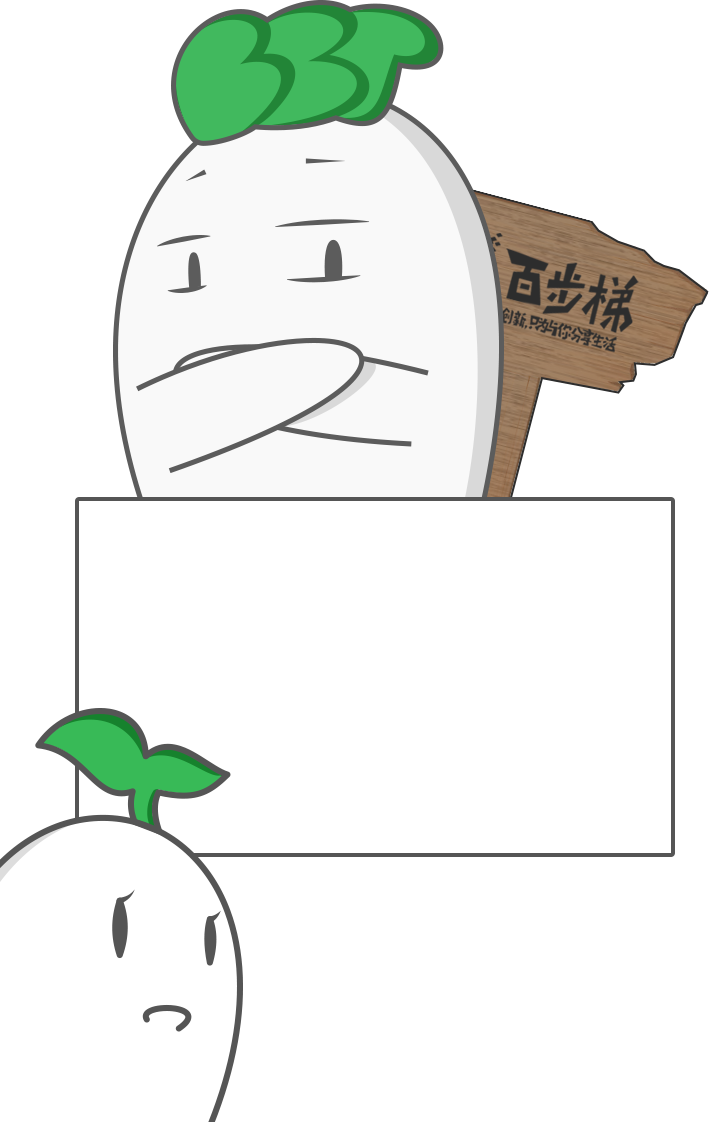
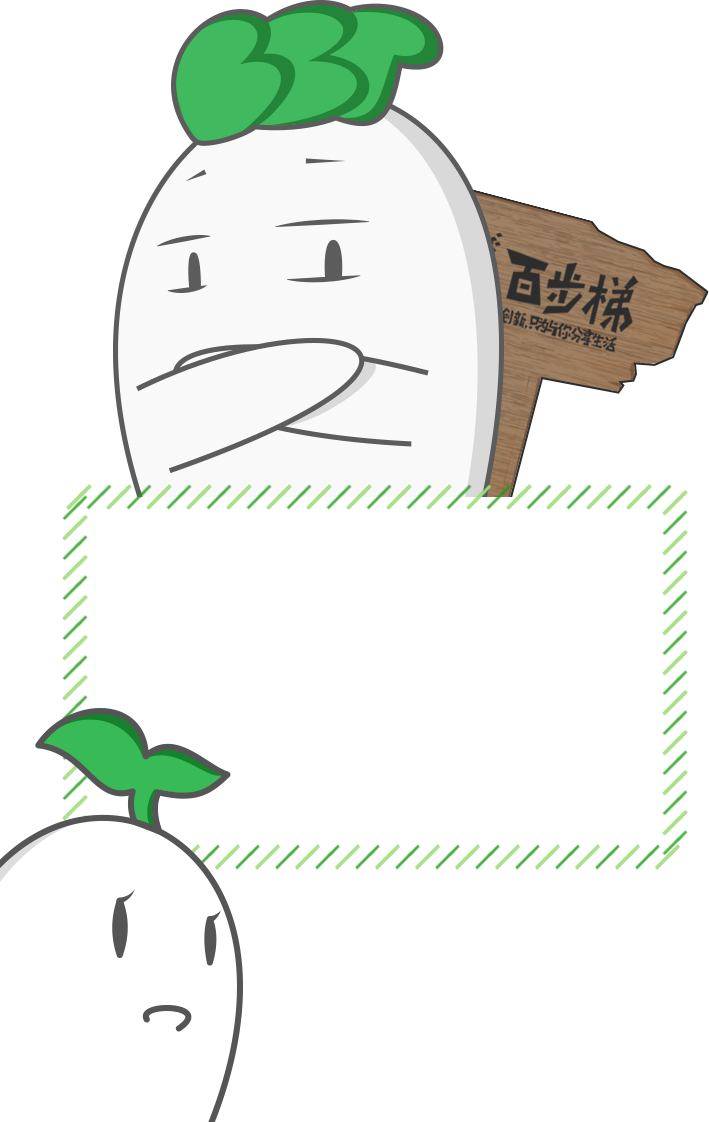
改了一堆设计说要改的东西

Changed region(s): [[0.0931, 0.4367, 0.9619, 0.7799], [0.0931, 0.6863, 0.1241, 0.7487]]

diff --git a/js/game.js b/js/game.js
@@ -36,13 +36,27 @@ function onLoaded()
 
 function tmp()
 {
-    document.getElementById("loading").style.display="none";
-    document.getElementById("description-1").style.display="block";
-    document.getElementById("description-1").className+=" animated infinite pulse";
-    document.getElementById("description-1").onclick= function () {
-        document.getElementById("description-1").style.display="none";
-        showDescription2();
+    var isPlayed=localStorage.played;
+    /*console.log(isPlayed);
+    console.log(true);*/
+    if(isPlayed=='true')//localStorage的坑
+    {
+        gameInit(false);
+        document.getElementById("loading").style.display="none";
+        gameReseeResult();
     }
+    else
+    {
+        document.getElementById("loading").style.display="none";
+        document.getElementById("description-1").style.display="block";
+        document.getElementById("description-1").className+=" animated infinite pulse";
+        document.getElementById("description-1").onclick= function () {
+            document.getElementById("description-1").style.display="none";
+            showDescription2();
+        }
+    }
+
+
 }
 function showDescription2()
 {
@@ -59,12 +73,10 @@ function showDescription2()
         gameInit();
     }
 }
-function gameEnd()
+function showResult(play_time)
 {
-    if(isGameEnded)
-        return;
-    isGameEnded=true;
-    var play_time=getPlayTime();
+    document.getElementById("score_display").style.display="none";
+
     score=play_time;
     var is_succeed;
     if(play_time>=30)
@@ -88,10 +100,27 @@ function gameEnd()
     document.getElementById("description-3").style.display="block";
     document.getElementById("description-3").className+=" animated rollIn";
     isGameEnd=true;
+    localStorage.played='true';
+    localStorage.score=score;
     console.log("game end");
 }
-function gameInit()
+function gameEnd()
 {
+    if(isGameEnded)
+        return;
+    isGameEnded=true;
+    var play_time=getPlayTime();
+    showResult(play_time);
+}
+
+function gameReseeResult()
+{
+    showResult(localStorage.score);
+}
+function gameInit(ifStartGame)
+{
+    if(ifStartGame==null)
+        ifStartGame=true;
     isGameEnd=false;
     isGameEnded=false;
     var canvas=document.getElementById("gameCanvas");
@@ -110,8 +139,8 @@ function gameInit()
     container=new createjs.Container();
     stage.addChild(container);
 
-
-    gameStart();
+    if(ifStartGame)
+        gameStart();
 }
 function gameStart()
 {
@@ -135,6 +164,7 @@ function gameStart()
     createjs.Ticker.timingMode = createjs.Ticker.RAF;
     createjs.Ticker.interval=25;
     start_time=(new Date()).getTime();
+    document.getElementById("score_display").style.display="block";
     createjs.Ticker.addEventListener("tick", tick);
 }
 function addObj(drop_obj,isUltraQuick)
@@ -197,12 +227,20 @@ function tick(event)
         createjs.Ticker.removeAllEventListeners();
         setTimeout(gameEnd,1000);
     }
+    var time=0;
     if(isGameEnd)
+    {
         scoreLabel.text = "您的可爱值："+score.toFixed(2) + " FPS: "+Math.round(createjs.Ticker.getMeasuredFPS() )+ " 萝卜数： " + objs.length ;
+        time=score.toFixed(2);
+
+    }
     else
+    {
         scoreLabel.text = "您的可爱值："+getPlayTime().toFixed(2) + " FPS: "+Math.round(createjs.Ticker.getMeasuredFPS() )+ " 萝卜数： " + objs.length ;
-
-
+        time=getPlayTime().toFixed(2);
+    }
+    time=time.toString().split(".");
+    document.getElementById("score_display").innerText=time[0] +"' " + time[1];
     stage.update();
 
 }
@@ -277,5 +315,7 @@ function reStartGame()
 
     document.getElementById("description-3").style.display="none";
     document.getElementById("description-3").className="description-3-div";
+    stage.update();
+    localStorage.played='false';
     setTimeout(gameStart,1000);
 }

diff --git a/css/game.css b/css/game.css
@@ -62,41 +62,38 @@ body{
 }
 .description-3-text-div{
     position: absolute;
-    left:9.06%;
-    top:0.35%;
-    width:72.8%;
-    height: 65.57%;
-    padding-top:8px;
-    padding-left:1.5em;
+    left:3.48%;
+    top:2.29%;
+    width:82.99%;
+    height: 61.04%;
+    padding-top:20px;
     display: none;
 }
-.description-3-text-div > p{
+.description-3-text-div  p{
+
     font-size: 16px;
-    font-weight: bold;
     line-height: 28px;
     color: #555555;
     margin: 0;
     text-align: left;
-
+    margin-left: 40px;
 }
 .description-3-text-div a{
     text-decoration: none;
     color: green;
-    font-weight: bold;
+    display: inline-block;
+    margin: 0 12px;
 }
-.description-3-text-div > a{
+.two-col-div{
     display: block;
+    margin: 16px 0;
+    text-align: center;
 }
-.description-3-text-div > a:nth-of-type(1){
-     margin-top:26px;
+.description-3-text-div >a:nth-of-type(1){
+    font-weight: bolder;
  }
-.description-3-text-div > a:nth-of-type(2){
-    margin-top:10px;
-    margin-bottom: 18px;
-}
 .description-3-text-div span{
     font-size: 22px;
-    font-weight: bolder;
     line-height: 28px;
     color: green;
     margin: 0 6px;
@@ -108,12 +105,11 @@ body{
     top:43.57%;
     width:82.65%;
     height: 31.46%;
-    padding-top:16px;
+    padding-top:20px;
 }
 .description-1-text-div > p{
-    font-size: 16px;
-    font-weight: bold;
-    line-height: 28px;
+    font-size: 18px;
+    line-height: 36px;
     color: #555555;
     margin: 0;
     text-align: center;
@@ -157,22 +153,38 @@ body{
 }
 .button{
     display: block;
-    width: 135px;
-    height: 36px;
-    line-height: 36px;
+    width: 96px;
+    height: 32px;
+    line-height: 32px;
     font-size: 18px;
-    font-weight: bold;
     margin:0.5em auto;
     text-align: center;
     background-repeat:no-repeat;
     background-size: cover;
+    border-radius: 6px;
 
 }
 .green-button{
-    background-image: url("../game_resource/lv.png");
+    background-color: #1c9a12;
     color:white;
 }
 .white-button{
+    background-color: white;
+    color:#1c9a12;
+    border-color: #1c9a12;
+    border-width: 2px;
+    border-style: solid;
+
+}
+.score-span{
+    width: 135px;
+    height: 36px;
     background-image: url("../game_resource/bai.png");
-    color:green;
+    color: green;
+    position: fixed;
+    right: 12px;
+    top:12px;
+    line-height: 36px;
+    z-index: 200;
+    display: none;
 }

diff --git a/recruit_intro.php b/recruit_intro.php
@@ -6,22 +6,33 @@
     <link rel="stylesheet" href="css/recruit_intro.css?<?php echo filemtime("css/recruit_intro.css");?>">
     <link rel="stylesheet" href="lib/animate.css/animate.min.css">
     <script src="lib/axios/dist/axios.min.js"></script>
-    <script src="lib/vue/dist/vue.min.js"></script>
+    <script src="lib/vue/dist/vue.js"></script>
     <title></title>
 </head>
 <body>
 <div id="vm_div">
     <img class="bottom-img" src="img/bottom.png" />
-    <div class="head-div">
-        <div class="head-img-div">
-            <img :src="cur_head_img" />
+    <transition-group name="fade-in"
+                :enter-active-class="fade_in_class"
+                :leave-active-class="fade_out_class"
+                      mode="in-out">
+        <div v-for="(department,pos) in departments" v-show="cur_pos==pos" key="'div-'+pos" class="animate-div">
+            <div class="head-div" >
+                <div class="head-img-div" >
+                    <img :src="department.img" />
+                </div>
+            </div>
+            <div class="description" v-html="department.description">
+            </div>
+            <button class="button" onclick="window.location='recruit.html'">马上报名</button>
+            <div class="sitg-div"></div>
         </div>
-    </div>
-    <span class="left-arrow" v-if="cur_pos>0 || true" @click="goPage(cur_pos-1)"></span>
-    <span class="right-arrow" v-if="cur_pos<apartments-1 || true" @click="goPage(cur_pos+1)"></span>
-    <div class="description" v-html="cur_description">
-    </div>
-    <button class="button">马上报名</button>
+    </transition-group>
+
+
+    <span class="left-arrow" v-if="cur_pos>0" @click="goPage(cur_pos-1)"></span>
+    <span class="right-arrow" v-if="cur_pos<departments.length-1" @click="goPage(cur_pos+1)"></span>
+
 </div>
 
 
@@ -30,27 +41,37 @@
         {
             el: "#vm_div",
             data: {
-                apartments :[],
-                cur_head_img:"img/word/技术部.png",
+                departments :[],
                 cur_pos:0,
-                cur_description:'<p>“厚德”一词典出 周易：“地势坤，君子以厚德载物”。郑玄注《周礼•地官•师氏》云：“德行，内外之称，在心为德，施之为行。”“德” 包括思想修养和行为规范两个方面。</p>' +
-                '<p> “自强不息”出自 周易：“天行健，君子以自强不息”。意为自觉地奋发图强，积极向上，永不懈怠。“自强不息”浓缩了华南理工大学艰苦奋斗、砥砺前行的办学历程，展示了华南理工人自立自强、乐观向上的积极态度。</p>'
+                fade_in_class:'',
+                fade_out_class:''
             },
             filters: {
 
             },
             created: function(){
-                axios.get("")
+                axios.get("departments.json")
                     .then(function(response)
                     {
-                        vm.apartments=response.data.apartments;
+                        vm.departments=response.data.departments;
                     });
             },
             methods: {
                 goPage:function(page)
                 {
+                    if(page<this.cur_pos)
+                    {
+                        this.fade_in_class='animated fadeInLeft';
+                        this.fade_out_class='animated fadeOutRight';
+                    }
+                    else
+                    {
+
+                        this.fade_in_class='animated fadeInRight';
+                        this.fade_out_class='animated fadeOutLeft';
+                    }
                     this.cur_pos=page;
-                    this.cur_description=this.apartments[page].description;
+
                 }
             }
         }

diff --git a/luobo.php b/luobo.php
@@ -16,10 +16,9 @@
     <div class="description-1-div" id="description-1">
         <img class="description-1-img" src="game_resource/1.png"/>
         <div class="description-1-text-div">
-            <p>Hi 这里是百步梯</p>
-            <p>想加入我们吗</p>
-            <p>先接受梯仔的挑战吧！！</p>
-            <p>只是个简单的小游戏啦</p>
+            <p>嗨 这里百步梯</p>
+            <p>报名吗</p>
+            <p>先来玩个小游戏吧</p>
             <span class="button green-button">开始</span>
         </div>
     </div>
@@ -34,16 +33,19 @@
 
         <div class="description-3-text-div" id="game_faild">
             <p>你的成绩为<span id="player_score_faild">11</span></p>
-            <p>很遗憾没能通过梯仔的挑战> <</p>
+            <p>很遗憾没能通过> <</p>
             <p>不过别灰心</p>
             <p>这游戏就没打算让人通过啦</p>
             <p>虽然现在已经有<span id="passed_faild">11</span>人通过啦</p>
             <p>大家真是太厉害了> - <</p>
             <p>没过也没关系哦</p>
             <p>别忘了报名才是正事啦</p>
-            <a href="#">马上报名 > ></a>
-            <a href="#">查看部门介绍 > ></a>
-            <p>当然你也可以 <a href="#" onclick="reStartGame();">再次挑战</a></p>
+            <p>当然你也可以选择 <a href="#" onclick="reStartGame();">再玩一次</a></p>
+            <div class="two-col-div">
+                <a href="recruit.html" class="button white-button">马上报名</a>
+                <a href="recruit_intro.php" class="button white-button">部门介绍</a>
+            </div>
+
         </div>
         <div class="description-3-text-div" id="game_succeed">
             <p>你的成绩为<span id="player_score_succeed">11</span></p>
@@ -66,6 +68,7 @@
         <img class="loading-img roating" src="game_resource/daluobo.png" width="71" height="81"/>
         <span class="loading-text animated infinite bounce">Loading...</span>
     </div>
+    <span class="button score-span" id="score_display">12' 50</span>
     <canvas id="gameCanvas"></canvas>
 </div>
 
